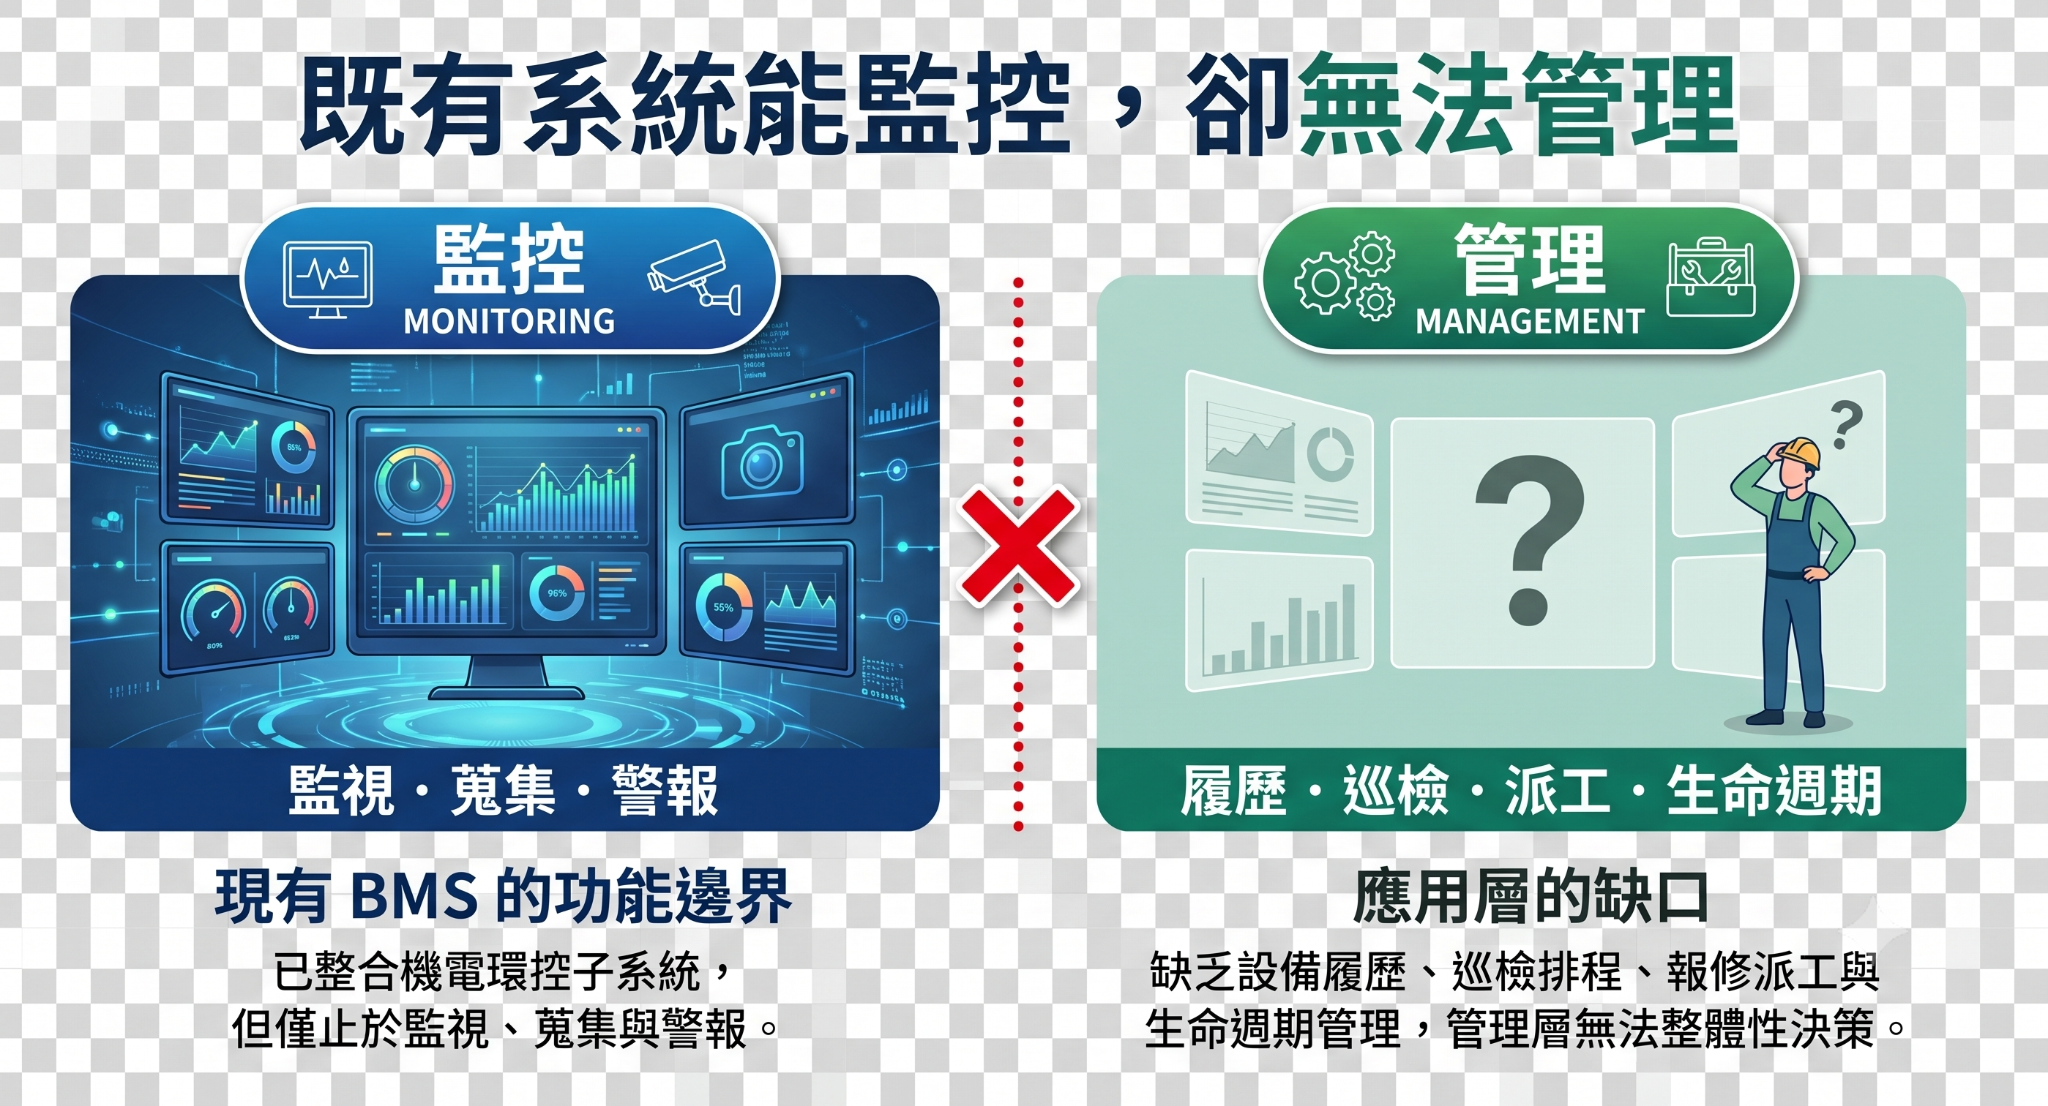
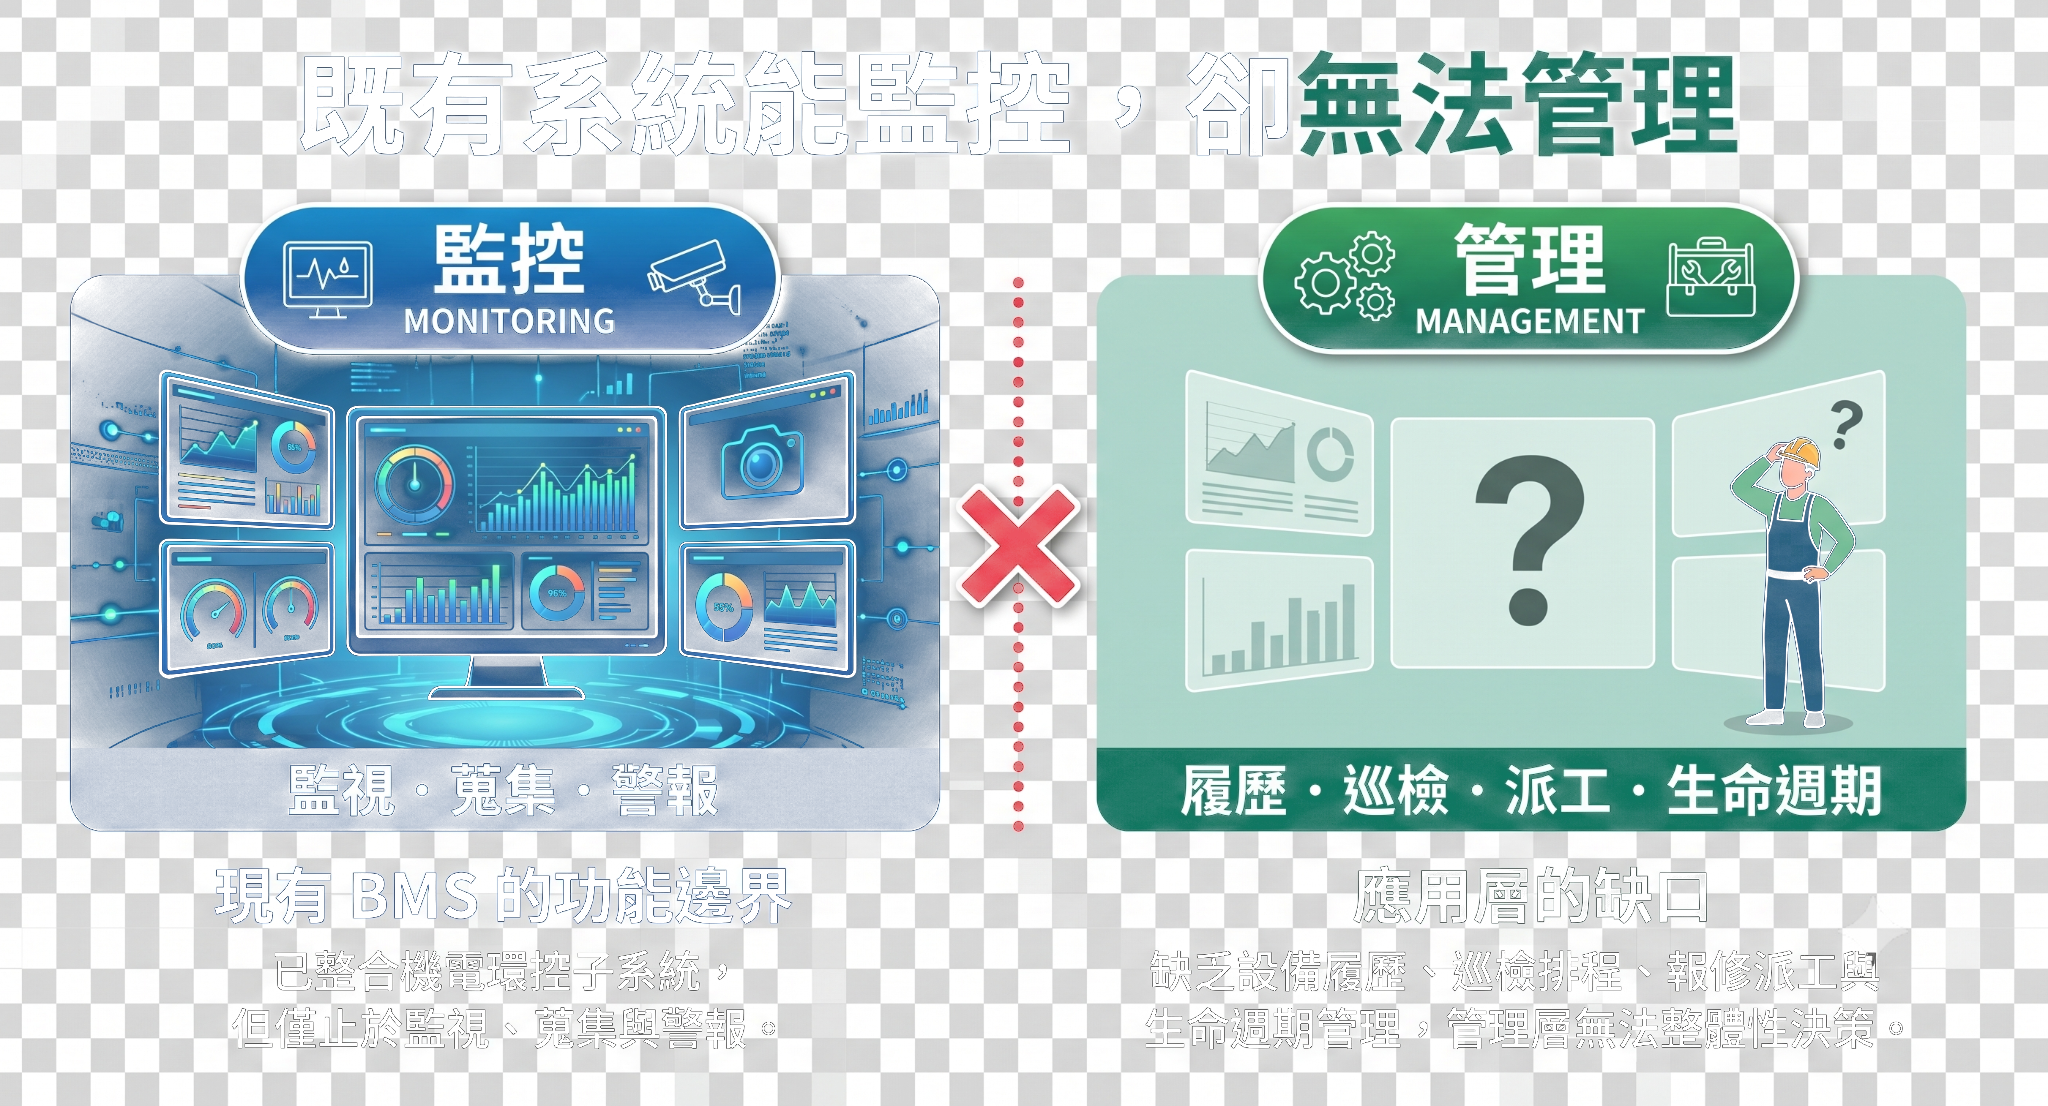
slide 3: embed download.png (de-bg, 80%, blend)

diff --git a/index.html b/index.html
@@ -335,7 +335,9 @@ table.deck-table tr:last-child td{border-bottom:none;}
   </div>
 </section>
 
-<section class="slide" data-section="引起動機" data-slide="3" style="background:url('Gemini_Generated_Image_4ctty64ctty64ctt.png') center/cover no-repeat, var(--bg);"></section>
+<section class="slide" data-section="引起動機" data-slide="3" style="background:var(--bg); display:flex; align-items:center; justify-content:center;">
+  <img src="download.png" alt="" style="width:80%; height:auto; border-radius:16px; box-shadow:0 4px 40px rgba(24,24,27,0.15);">
+</section>
 
 <section class="slide" id="s3" data-section="引起動機" data-slide="4">
   <div class="slide-inner">